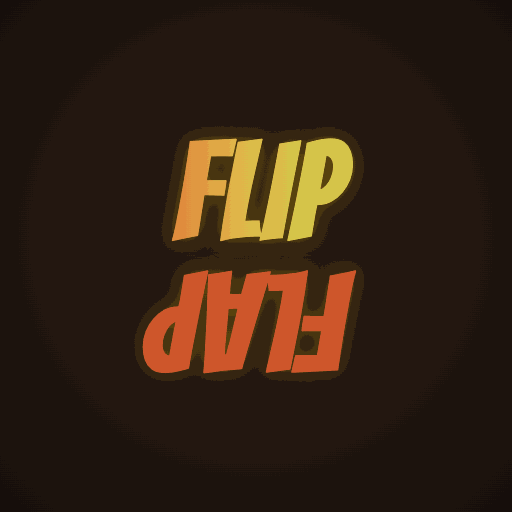
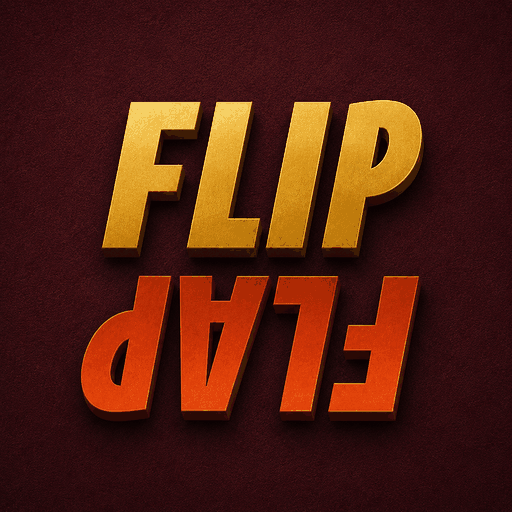
앱 표지 교체 · 뽑기 카드 눌러서 열기 · 무거운 것 정리
표지를 보내 주신 그림으로 바꿨다. 원본이 2.7MB 라 그대로 넣으면 첫 화면이
그만큼 늦는다 — 512·192·180 으로 굽고 팔레트로 다시 눌러 178/25/22KB 로
줄였다. 눈으로 비교해도 차이가 안 보인다.

뽑기에서 아직 뒤집히지 않은 카드를 누르면 그 한 장만 먼저 열린다. 순서를
기다리는 게 답답하다는 얘기였다. 자동 차례와 손으로 누르는 걸 같은 함수
(gcFlipOne)로 묶어, 소리·연출이 한쪽에만 붙는 일이 없게 했다. 이미 열린
건 아무 일도 안 하고, 자동 차례는 손으로 연 걸 건너뛴다.
카드를 눌렀는데 전체가 넘어가 버리면 한 장 열기가 무의미해지므로,
전체 넘기기는 빈 곳을 눌렀을 때만 걸리게 했다.

무거운 것 정리. 폰의 렉은 여기서 재현이 안 돼(로비·다인전 모두 60fps,
긴 작업 0) 재서 고쳤다고는 못 한다. 대신 계속 일하게 만드는 자리를 없앴다.
  · 모달 상태를 0.4초마다 훑던 걸 없앴다. 아무도 안 눌러도 초당 2.5번
    깨어났다 — 이제 class 가 바뀔 때만 본다(MutationObserver).
  · 다인전 재시도 타이머도 보낸 게 있을 때만 돌게 했다.
  · 깜빡이는 테두리 둘(뽑기 카드 힌트·미션 수령 버튼)이 box-shadow 를
    애니메이션하고 있었다 — 매 프레임 다시 그린다. 겹쳐 둔 한 겹의
    opacity 만 움직이게 바꿔 합성으로 끝낸다. 뽑기는 열 장이 동시에 도는
    자리라 특히 컸다.
gzip·캐시는 이미 돼 있었고 손대지 않았다.

tests/t_perf.js — 다시 무거워지기 쉬운 자리에 못을 박는다. 상시 타이머,
무한히 도는 무거운 애니메이션, 아이콘 파일 크기. 봐주는 목록은 두지
않았다(두면 거기에 쌓인다). 폴링과 box-shadow 를 되살려 실제로 실패하는
것까지 확인했다.

diff --git a/public/client.js b/public/client.js
@@ -1894,8 +1894,22 @@ function navRefresh() {
   navSync(open('missionModal') ? 'mission' : open('shopModal') ? 'shop'
         : open('friendsModal') ? 'friends' : open('clanModal') ? 'clan' : 'home');
 }
-// 모달은 여러 경로(ESC·바깥 클릭·닫기 버튼)로 닫히므로, 상태를 주기적으로 맞춘다.
-setInterval(navRefresh, 400);
+// 모달은 여러 경로(ESC·바깥 클릭·닫기 버튼)로 닫히므로 상태를 맞춰 줘야 한다.
+// 예전엔 0.4초마다 계속 훑었다 — 아무 일이 없어도 초당 2.5번 깨어나 폰이
+// 쉬지를 못했다. 창이 열리고 닫히는 건 class 가 바뀌는 일이니, 그걸 지켜본다.
+(function watchModals() {
+  const obs = new MutationObserver(() => {
+    // 한 번의 변화로 여러 번 부르지 않게 다음 프레임에 한 번만
+    if (watchModals.q) return;
+    watchModals.q = true;
+    requestAnimationFrame(() => { watchModals.q = false; navRefresh(); });
+  });
+  for (const id of ['missionModal', 'shopModal', 'friendsModal', 'clanModal', 'gachaModal']) {
+    const el = document.getElementById(id);
+    if (el) obs.observe(el, { attributes: true, attributeFilter: ['class'] });
+  }
+  navRefresh();
+})();
 
 function paintIcons(root) {
   (root || document).querySelectorAll('[data-ico]').forEach(el => {
@@ -2071,7 +2085,12 @@ const TIER_RANK = { common: 0, rare: 1, epic: 2, legend: 3 };
 const gcWait = (ms) => new Promise((r) => setTimeout(r, ms));
 
 let _skipReveal = false;
-function skipGachaReveal() { _skipReveal = true; }
+function skipGachaReveal(e) {
+  // 카드를 누른 건 "그 한 장만 열어 달라" 는 뜻이다. 여기서 전부 넘겨 버리면
+  // 한 장 열기가 아무 소용이 없어진다 — 빈 곳을 눌렀을 때만 전부 넘긴다.
+  if (e && e.target && e.target.closest && e.target.closest('.gc-item')) return;
+  _skipReveal = true;
+}
 function gachaOpen() { return document.getElementById('gachaModal').classList.contains('show'); }
 
 function gcCardHtml(g) {
@@ -2167,6 +2186,21 @@ function gcSummary(results) {
     (shard ? `<span class="s-shard">🔷 +${shard}</span>` : '') + '</div>';
 }
 
+// 한 장 뒤집기. 저절로 뒤집히는 차례에도, 손으로 눌렀을 때도 같은 길을 쓴다 —
+// 두 벌로 나누면 소리나 연출이 한쪽에만 붙는다. 이미 뒤집힌 건 아무 일도 안 한다.
+function gcFlipOne(el, g, quiet) {
+  if (!el || el.classList.contains('flipped')) return false;
+  el.classList.add('flipped');
+  el.onclick = null;
+  el.classList.remove('gc-tap');
+  if (quiet || _skipReveal || !gachaOpen()) return true;
+  const rank = TIER_RANK[g.tier] || 0;
+  if (rank >= 1) el.classList.add('lit', 'pop-' + g.tier);
+  if (rank >= 3) { gcFlash(); gcRay(); gcQuake(700); }
+  playSound(rank >= 3 ? 'setwin' : rank >= 2 ? 'reveal' : rank >= 1 ? 'ping' : 'flip');
+  return true;
+}
+
 async function revealGacha(stage, results) {
   const top = results.reduce((m, g) => Math.max(m, TIER_RANK[g.tier] || 0), 0);
 
@@ -2178,35 +2212,37 @@ async function revealGacha(stage, results) {
   stage.innerHTML = '';
   const els = shown.map((g, i) => {
     const el = document.createElement('div');
-    el.className = 'gc-item t-' + g.tier;
+    el.className = 'gc-item t-' + g.tier + (_skipReveal ? '' : ' gc-tap');
     el.style.animationDelay = (_skipReveal ? 0 : i * 55) + 'ms';
     el.innerHTML = gcCardHtml(g);
+    // 궁금한 걸 먼저 열어 볼 수 있게. 순서를 기다리는 게 답답하다는 얘기가 있었다.
+    el.onclick = () => gcFlipOne(el, g);
     stage.appendChild(el);
     return el;
   });
   if (shown.length > 1 && !_skipReveal) {
-    stage.insertAdjacentHTML('beforeend', '<div class="gc-skip">아무 데나 누르면 바로 보기</div>');
+    stage.insertAdjacentHTML('beforeend',
+      '<div class="gc-skip">카드를 누르면 먼저 열려요 · 빈 곳을 누르면 전부</div>');
   }
   if (!_skipReveal) { playSound('deal'); await gcWait(shown.length * 55 + 260); }
 
-  // ③ 한 장씩 뒤집힌다 — 등급이 높을수록 오래 머문다
+  // ③ 한 장씩 뒤집힌다 — 등급이 높을수록 오래 머문다.
+  //    손으로 이미 연 건 건너뛴다(gcFlipOne 이 false 를 준다).
   for (let i = 0; i < els.length; i++) {
     const g = shown[i], el = els[i];
-    el.classList.add('flipped');
-    // 도중에 창을 닫았으면 남은 건 조용히 다 뒤집고 끝낸다.
-    // 안 그러면 닫힌 뒤에 화면이 번쩍이고 소리가 난다.
+    if (!gcFlipOne(el, g)) continue;
     if (_skipReveal || !gachaOpen()) continue;
     const rank = TIER_RANK[g.tier] || 0;
-    if (rank >= 1) { el.classList.add('lit', 'pop-' + g.tier); }
-    if (rank >= 3) { gcFlash(); gcRay(); gcQuake(700); }
-    playSound(rank >= 3 ? 'setwin' : rank >= 2 ? 'reveal' : rank >= 1 ? 'ping' : 'flip');
     await gcWait(rank >= 3 ? 1000 : rank >= 2 ? 420 : 165);
   }
+  // 넘기기로 들어왔으면 남은 건 조용히 다 뒤집는다
+  for (let i = 0; i < els.length; i++) gcFlipOne(els[i], shown[i], true);
   const skip = stage.querySelector('.gc-skip');
   if (skip) skip.remove();
 
   // ④ 한 줄 정리 — 열 장을 다 훑지 않아도 뭘 얻었는지 보인다
-  if (gachaOpen()) stage.insertAdjacentHTML('beforeend', gcSummary(results));
+  if (gachaOpen() && !stage.querySelector('.gc-sum'))
+    stage.insertAdjacentHTML('beforeend', gcSummary(results));
 }
 
 let _gachaBusy = false;

diff --git a/tests/t_perf.js b/tests/t_perf.js
@@ -1,0 +1,79 @@
+// 앱이 무거워지지 않게 지키는 선.
+//
+// 폰의 렉은 여기서 재현할 수 없다. 그래서 "재서 고쳤다" 대신, 다시 무거워지기
+// 쉬운 자리에 못을 박아 둔다 — 상시 폴링, 매 프레임 다시 그리는 애니메이션,
+// 그리고 무심코 커지는 아이콘 파일.
+const fs = require('fs');
+const src = __dirname + '/..';
+const cli = fs.readFileSync(src + '/public/client.js', 'utf8');
+const c4 = fs.readFileSync(src + '/public/client4.js', 'utf8');
+const html = fs.readFileSync(src + '/public/index.html', 'utf8');
+const srv = fs.readFileSync(src + '/server.js', 'utf8');
+
+let pass = 0, fail = 0;
+const ok = (n, c, extra) => { c ? (pass++, console.log('  ✓ ' + n)) : (fail++, console.log('  ✗ ' + n + (extra !== undefined ? '  ' + extra : ''))); };
+
+console.log('① 아무 일 없을 때는 쉬어야 한다');
+{
+  // 예전엔 0.4초마다 모달 상태를 훑었다. 아무도 안 눌러도 초당 2.5번 깨어난다.
+  ok('모달 상태를 폴링하지 않는다', !/setInterval\(navRefresh/.test(cli));
+  ok('class 변화를 지켜본다', /MutationObserver/.test(cli) && /attributeFilter: \['class'\]/.test(cli));
+  ok('한 프레임에 한 번만 부른다', /requestAnimationFrame\(\(\) => \{ watchModals\.q = false; navRefresh\(\); \}\)/.test(cli));
+
+  // 다인전 재시도 타이머 — 보낸 게 있을 때만 돈다
+  ok('재시도 타이머는 필요할 때만', /pendTimer = pendAct \? setInterval\(checkPend, 700\) : null/.test(c4));
+  ok('먹히면 타이머를 끈다', /pendAct = null; watchPend\(\)/.test(c4));
+
+  // 남아 있는 상시 타이머를 세어 둔다. 늘어나면 여기서 걸린다.
+  const always = [...cli.matchAll(/setInterval\(/g)].length + [...c4.matchAll(/setInterval\(/g)].length;
+  ok('상시 타이머가 늘지 않았다', always <= 5, `${always}개`);
+}
+
+console.log('\n② 매 프레임 다시 그리는 애니메이션');
+{
+  // opacity·transform 은 합성만 하지만, box-shadow·filter·width 는 다시 그린다.
+  // 무한히 도는 것 중에 그런 게 있으면 폰이 계속 일한다.
+  const infinite = [...html.matchAll(/animation:\s*([\w-]+)[^;]*infinite/g)].map((m) => m[1]);
+  ok('무한 애니메이션을 찾았다', infinite.length > 0, `${infinite.length}개`);
+
+  // 키프레임 본문은 중괄호가 겹쳐 있어 정규식으로 자르면 옆 규칙까지 삼킨다.
+  // 여는 괄호부터 짝이 맞을 때까지 직접 센다.
+  const bodyOf = (name) => {
+    const i = html.search(new RegExp('@keyframes\\s+' + name + '\\s*\\{'));
+    if (i < 0) return '';
+    let j = html.indexOf('{', i), depth = 0;
+    for (let k = j; k < html.length; k++) {
+      if (html[k] === '{') depth++;
+      else if (html[k] === '}' && --depth === 0) return html.slice(j + 1, k);
+    }
+    return '';
+  };
+  const heavy = [];
+  for (const name of new Set(infinite)) {
+    // 값 안에 섞인 단어가 아니라 실제 선언만 본다
+    if (/(^|[{;\s])(box-shadow|filter|width|height|background)\s*:/.test(bodyOf(name))) heavy.push(name);
+  }
+  // 봐주는 목록을 두면 거기에 자꾸 쌓인다. 지금 하나도 없으니 그냥 0을 지킨다.
+  ok('무한히 도는 무거운 애니가 없다', heavy.length === 0, heavy.join(','));
+
+  // 뽑기 카드 열 장이 동시에 도는 자리 — 여기만은 반드시 가벼워야 한다
+  ok('뽑기 카드 힌트는 opacity 만', /@keyframes gcTapHint \{ 0%,100% \{ opacity:0; \} 50% \{ opacity:1; \} \}/.test(html));
+}
+
+console.log('\n③ 내려받는 무게');
+{
+  const kb = (f) => Math.round(fs.statSync(src + '/public/' + f).size / 1024);
+  // 표지 그림은 무심코 원본을 그대로 넣기 쉽다. 원본은 2.7MB 였다.
+  ok('icon-512 가 200KB 이하', kb('icon-512.png') <= 200, kb('icon-512.png') + 'KB');
+  ok('icon-192 가 60KB 이하', kb('icon-192.png') <= 60, kb('icon-192.png') + 'KB');
+  ok('icon-180 가 60KB 이하', kb('icon-180.png') <= 60, kb('icon-180.png') + 'KB');
+  for (const f of ['icon-512.png', 'icon-192.png', 'icon-180.png'])
+    ok(`${f} 이 있다`, fs.existsSync(src + '/public/' + f));
+
+  // 서버가 압축·캐시를 해 주는지 (한 줄 지우면 전송량이 4배가 된다)
+  ok('gzip 압축을 쓴다', /require\('compression'\)\(\)/.test(srv));
+  ok('그림·음악·폰트는 캐시한다', /max-age=604800/.test(srv));
+}
+
+console.log(`\n결과: ${pass} 통과, ${fail} 실패`);
+process.exit(fail ? 1 : 0);

diff --git a/public/index.html b/public/index.html
@@ -593,6 +593,21 @@
     .gc-inner { position:relative; width:100%; height:100%;
       transform-style:preserve-3d; transition:transform .52s cubic-bezier(.4,.05,.2,1); }
     .gc-item.flipped .gc-inner { transform:rotateY(180deg); }
+    /* 아직 안 뒤집힌 카드는 눌러서 먼저 열 수 있다 — 눌러도 된다는 걸 보여 준다.
+       box-shadow 를 깜빡이게 했더니 열 장이 동시에 매 프레임 다시 그려졌다.
+       테두리는 고정으로 두고, 움직이는 건 겹쳐 둔 한 겹의 opacity 뿐이다
+       (opacity 는 다시 그리지 않고 합성만 한다). */
+    .gc-item.gc-tap { cursor:pointer; -webkit-tap-highlight-color:transparent; }
+    /* ::after 는 이미 뒷면 무늬가 쓰고 있어 ::before 를 쓴다.
+       원래 안쪽 그림자를 지우지 않게 뒤에 덧붙인다. */
+    .gc-item.gc-tap .gc-back {
+      box-shadow:inset 0 0 18px rgba(0,0,0,.55), inset 0 0 0 1px rgba(255,215,120,.5); }
+    .gc-item.gc-tap .gc-back::before {
+      content:''; position:absolute; inset:0; border-radius:inherit; pointer-events:none; z-index:1;
+      box-shadow:inset 0 0 0 1.5px rgba(255,215,120,.95);
+      animation:gcTapHint 1.8s ease-in-out infinite; will-change:opacity; }
+    .gc-item.gc-tap:active { transform:scale(.94); }
+    @keyframes gcTapHint { 0%,100% { opacity:0; } 50% { opacity:1; } }
     .gc-face { position:absolute; inset:0; backface-visibility:hidden;
       -webkit-backface-visibility:hidden; border-radius:11px;
       display:flex; flex-direction:column; align-items:center; justify-content:center; gap:3px;
@@ -713,7 +728,7 @@
     /* 모션을 줄여 달라고 한 기기에서는 전부 즉시 보여 준다 */
     @media (prefers-reduced-motion:reduce) {
       .gc-item, .gc-inner, .gc-aura, .gc-orb, .gc-orb::after,
-      .gc-quake, .gc-ray, .gc-sum,
+      .gc-quake, .gc-ray, .gc-sum, .gc-item.gc-tap .gc-back::before,
       .gc-flash, .gc-front .gi-dup { animation:none !important; transition:none !important; }
     }
     .gc-btns { display:flex; gap:8px; flex-shrink:0; }
@@ -930,8 +945,14 @@
       box-shadow:0 0 10px rgba(255,215,80,.28); -webkit-tap-highlight-color:transparent;
       animation:misPulse 1.6s ease-in-out infinite; }
     .mis-claim:active { transform:translateY(1px); }
-    @keyframes misPulse { 0%,100% { box-shadow:0 0 10px rgba(255,215,80,.28); }
-                          50%     { box-shadow:0 0 16px rgba(255,215,80,.6); } }
+    /* box-shadow 를 깜빡이면 매 프레임 다시 그린다. 겹쳐 둔 한 겹의 opacity 만
+       움직여 합성으로 끝낸다 (뽑기 카드 힌트와 같은 방식). */
+    .mis-claim { position:relative; }
+    .mis-claim::after {
+      content:''; position:absolute; inset:-1px; border-radius:inherit; pointer-events:none;
+      box-shadow:0 0 16px rgba(255,215,80,.6);
+      animation:misPulse 1.6s ease-in-out infinite; will-change:opacity; }
+    @keyframes misPulse { 0%,100% { opacity:0; } 50% { opacity:1; } }
     /* ── 관전 목록 ── */
     .rl-item.rl-live { border-color:rgba(255,100,100,.35); }
     /* ── 범용 토스트 ── */

diff --git a/tests/t_gachafx.js b/tests/t_gachafx.js
@@ -133,5 +133,26 @@ console.log('\n⑩ 카드백 미리보기 크기');
     ok(`${c} 도 칸에 맞췄다`, new RegExp(`\\.gi-ico \\.${c} \\{`).test(html));
 }
 
+console.log('\n⑪ 눌러서 먼저 열기');
+{
+  // 순서를 기다리는 게 답답하다는 얼궜다. 궁금한 걸 먼저 열 수 있게 한다.
+  ok('한 장 뒤집기 함수', /function gcFlipOne/.test(cli));
+  ok('이미 뒤집힌 건 그대로 둔다', /el\.classList\.contains\('flipped'\)\) return false/.test(cli));
+  ok('카드마다 누를 수 있다', /el\.onclick = \(\) => gcFlipOne\(el, g\)/.test(cli));
+  // 자동 차례와 손으로 누르는 걸 두 벌로 나누면 한쪽에만 연출이 붙는다
+  ok('자동 차례도 같은 길을 쓴다', /if \(!gcFlipOne\(el, g\)\) continue/.test(cli));
+  ok('넣기기면 나머지를 조용히 뒤집는다', /gcFlipOne\(els\[i\], shown\[i\], true\)/.test(cli));
+
+  // 카드를 눌렀는데 전체가 넘어가면 한 장 열기가 무의미해진다
+  ok('카드 클릭은 전체 넘기기가 아니다', /closest\('\.gc-item'\)\) return/.test(cli));
+  ok('안내 문구도 바뀌었다', /카드를 누르면 먼저 열려요/.test(html) || /카드를 누르면 먼저 열려요/.test(cli));
+
+  // 눌러도 된다는 표시 — 다시 그리지 않는 opacity 로만 움직여야 한다
+  ok('누를 수 있다는 표시', /\.gc-item\.gc-tap \{/.test(html));
+  ok('깜빡임은 opacity 만', /@keyframes gcTapHint \{ 0%,100% \{ opacity:0; \} 50% \{ opacity:1; \} \}/.test(html));
+  ok('box-shadow 를 깜빡이지 않는다', !/@keyframes gcTapHint[\s\S]{0,160}?box-shadow:/.test(html));
+  ok('무늬 부분(::after)과 안 부딪친다', /\.gc-item\.gc-tap \.gc-back::before \{/.test(html));
+}
+
 console.log(`\n결과: ${pass} 통과, ${fail} 실패`);
 process.exit(fail ? 1 : 0);

diff --git a/public/client4.js b/public/client4.js
@@ -167,22 +167,29 @@
   function sendAct(payload) {
     pendAct = { payload, at: Date.now(), sig: stateSig(), tries: 0 };
     socket.emit('g4_act', payload);
+    watchPend();
   }
   // 상태가 실제로 바뀌었으면 먹힌 것이다
   function noteState() {
-    if (pendAct && stateSig() !== pendAct.sig) pendAct = null;
+    if (pendAct && stateSig() !== pendAct.sig) { pendAct = null; watchPend(); }
   }
-  setInterval(() => {
-    if (!pendAct || !q4Live || !q4Room) return;
+  // 보낸 게 있을 때만 깨어난다. 계속 도는 타이머는 아무 일이 없어도 폰을 깨운다.
+  let pendTimer = null;
+  function watchPend() {
+    clearInterval(pendTimer);
+    pendTimer = pendAct ? setInterval(checkPend, 700) : null;
+  }
+  function checkPend() {
+    if (!pendAct || !q4Live || !q4Room) return watchPend();
     if (Date.now() - pendAct.at < 1800) return;
     if (pendAct.tries >= 2) {                // 두 번 더 해 보고도 안 되면 솔직히 말한다
       $('q-status').textContent = '서버가 응답하지 않아요 — 잠시 후 다시 눌러주세요';
-      pendAct = null; return;
+      pendAct = null; return watchPend();
     }
     pendAct.tries++; pendAct.at = Date.now();
     resume();                                // 자리부터 다시 잇고
     setTimeout(() => { if (pendAct) socket.emit('g4_act', pendAct.payload); }, 300);
-  }, 700);
+  }
 
   // 확정 — 여기서만 서버로 나간다
   window.q4Confirm = function () {
